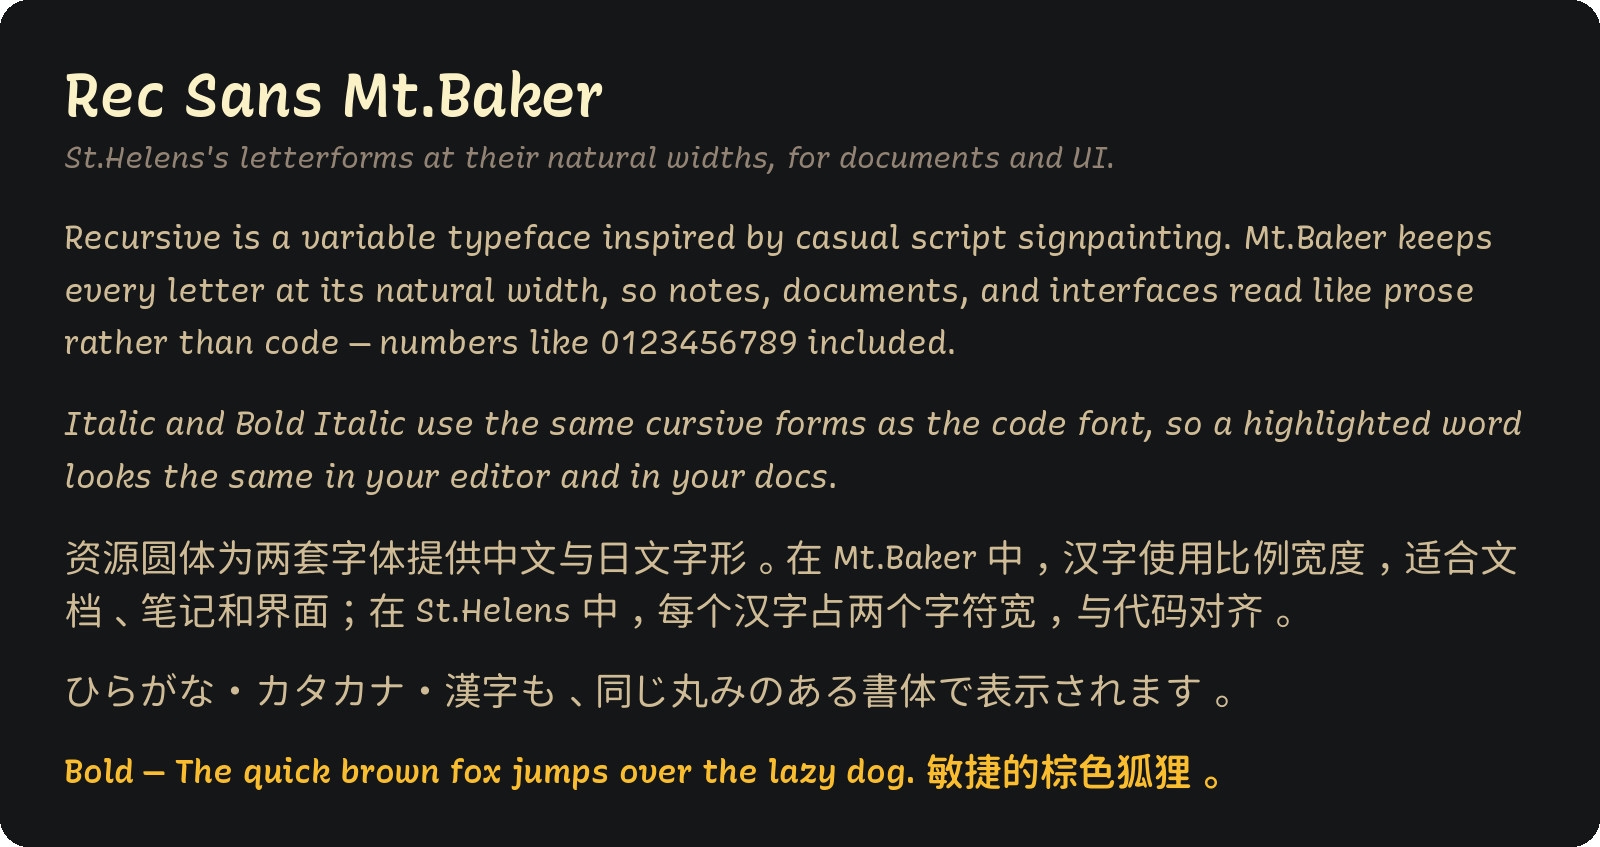
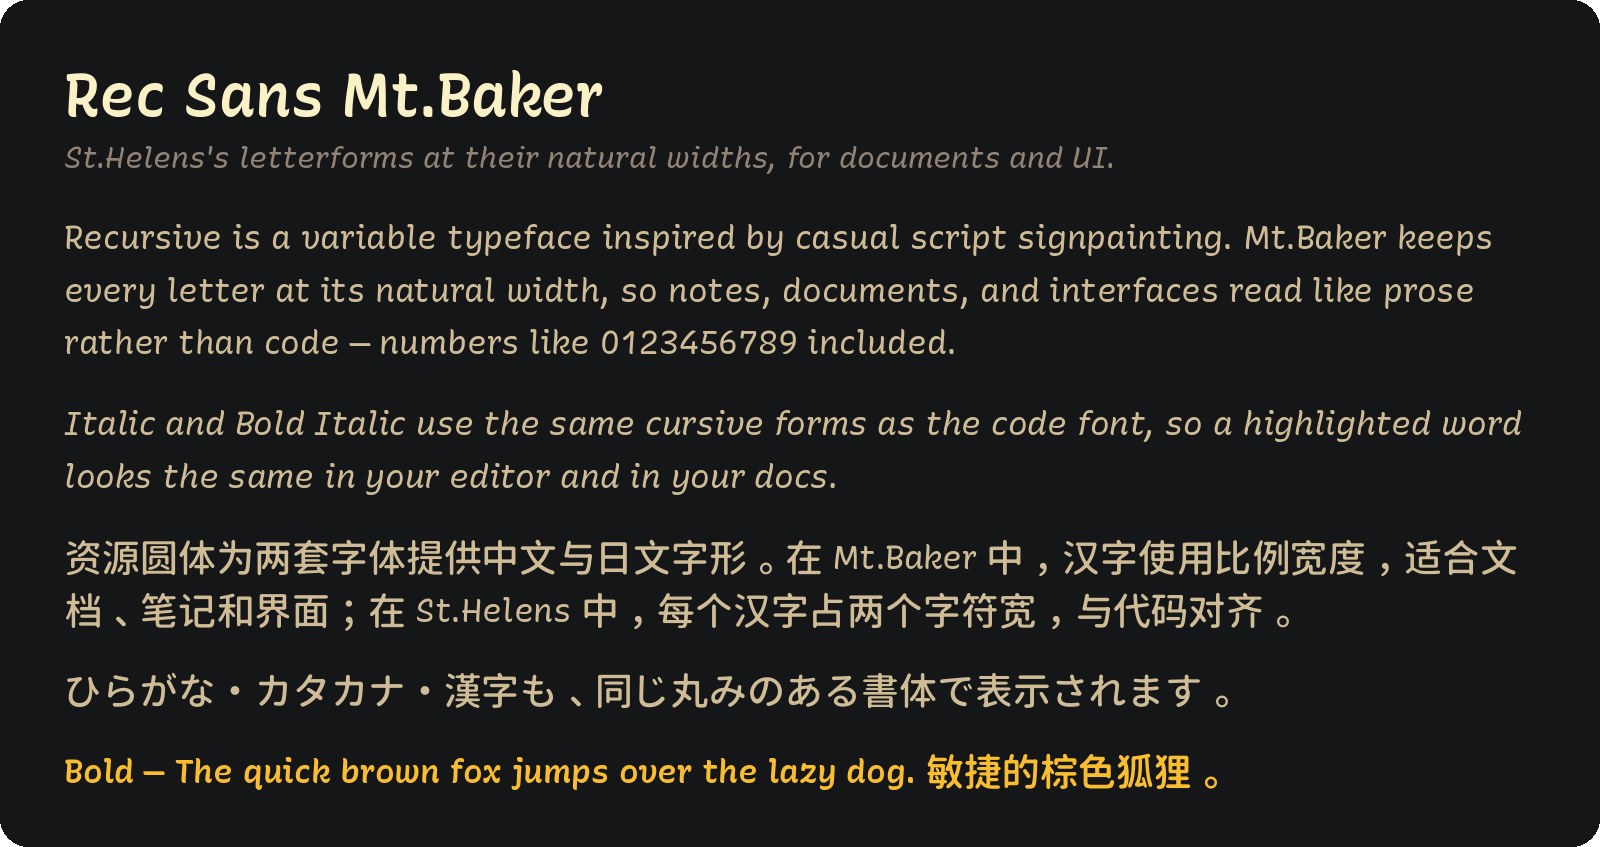
feat: CJK weight 500 for Regular and Italic, 600 for Bold (#6)
* feat: CJK weight 500 for Regular and Italic, 600 for Bold

Resource Han Rounded at wght 400 drew Chinese stems lighter than the
Recursive Regular strokes. Regular and Italic now take the CJK glyphs from
the variable font at wght 500 (Medium); Bold and Bold Italic stay at 600.

The verifier expects a stem ratio of 0.111 for Regular, the fetch test
expects the Medium source, and the README, wiki pages and previews follow.

* test: verifier rejects a Regular font with wght 400 CJK stems

Thin the stems of 丨 and 一 to 0.8× so their ratio falls to the wght 400
value, and expect the stem ratio check to fail.

---------

diff --git a/scripts/test-verify-fonts.py b/scripts/test-verify-fonts.py
@@ -58,6 +58,22 @@ def halfwidth_off_by(units):
     return change
 
 
+def thin_stems(factor):
+    """Scale the stem thickness of 丨 and 一 by factor, as a lighter CJK weight would."""
+    def change(font):
+        cmap = font.getBestCmap()
+        for cp in verify_fonts.CJK_STEM_GLYPHS:
+            glyph = font["glyf"][cmap[cp]]
+            glyph.recalcBounds(font["glyf"])
+            width, height = glyph.xMax - glyph.xMin, glyph.yMax - glyph.yMin
+            axis, low = (0, glyph.xMin) if width < height else (1, glyph.yMin)
+            for i, point in enumerate(glyph.coordinates):
+                point = list(point)
+                point[axis] = round(low + (point[axis] - low) * factor)
+                glyph.coordinates[i] = point
+    return change
+
+
 CASES = [
     ("unchanged font", lambda font: None, None),
     ("missing halfwidth ｱ", drop(0xFF71), "halfwidth"),
@@ -65,6 +81,7 @@ CASES = [
     ("halfwidth ｱ 2 units over half", halfwidth_off_by(2), "halfwidth"),
     ("one ideograph 1 unit wide", widen(0x4E01, 1), "ideograph advances"),
     ("missing stem glyph 丨", drop(0x4E28), "stem glyphs"),
+    ("Regular CJK at wght 400 (stems 0.8×)", thin_stems(0.8), "stem ratio"),
 ]
 
 failed = False

diff --git a/scripts/verify-fonts.py b/scripts/verify-fonts.py
@@ -26,7 +26,7 @@ REQUIRED_CODEPOINTS = {
 # CJK stroke weight as stem thickness / stroke length of 丨 and 一, which does
 # not change with the CJK scale. Resource Han Rounded measures about 0.089 at
 # wght 400, 0.111 at 500, 0.126 at 600, and 0.139 at 700.
-CJK_STEM_RATIO = {"Regular": 0.089, "Bold": 0.126}
+CJK_STEM_RATIO = {"Regular": 0.111, "Bold": 0.126}
 CJK_STEM_TOLERANCE = 0.006
 CJK_STEM_GLYPHS = (0x4E28, 0x4E00)
 

diff --git a/wiki/Build-Pipeline-zh-CN.md b/wiki/Build-Pipeline-zh-CN.md
@@ -34,7 +34,7 @@ flowchart LR
 
 ## 阶段 2：合入中日文
 
-`scripts/merge-cjk.py` 在 FontForge 中运行。它从资源圆体（Regular 和 Italic 用 wght 400，Bold 和 Bold Italic 用 wght 600）复制汉字、假名以及全角/半角区段，
+`scripts/merge-cjk.py` 在 FontForge 中运行。它从资源圆体（Regular 和 Italic 用 wght 500，Bold 和 Bold Italic 用 wght 600）复制汉字、假名以及全角/半角区段，
 先按拉丁字体的 em 缩放，只有高于其上伸部到下伸部的字身时才缩小，
 再乘以中日文缩放比例（默认 1.15），并在该字身中居中。等宽字体使用精确的单元格宽度；
 比例字体保留每个字形自身缩放后的宽度（`--proportional`）。
@@ -66,7 +66,7 @@ flowchart LR
 | `post.isFixedPitch` | 1 | 0 |
 | ASCII 步进宽度 | 全部等于空格 | 至少两种不同宽度 |
 | 汉字步进宽度 | 两格 | 所有汉字同一宽度；必须有半角 ｱ，宽度为其一半（± 1） |
-| 丨 和 一 的笔画粗细比（400：0.089，600：0.126，± 0.006） | 是 | 是 |
+| 丨 和 一 的笔画粗细比（500：0.111，600：0.126，± 0.006） | 是 | 是 |
 | `head.flags` 第 4 位 | 清除 | — |
 
 所有字体构建完成后，`build-all.sh` 运行 `scripts/test-verify-fonts.py`：它修改 Mt.Baker Regular 的副本

diff --git a/wiki/Build-Pipeline.md b/wiki/Build-Pipeline.md
@@ -37,7 +37,7 @@ For `anthropic-serif`, from the configured static weight:
 ## Stage 2: merge CJK
 
 `scripts/merge-cjk.py` runs under FontForge. It copies the CJK, kana, and
-full-width/halfwidth ranges from Resource Han Rounded (wght 400 for Regular and
+full-width/halfwidth ranges from Resource Han Rounded (wght 500 for Regular and
 Italic, wght 600 for Bold and Bold Italic), scales them to the
 Latin font's em, shrinks them only if they are taller than its
 ascender–descender body, multiplies them by the CJK scale (default 1.15), and
@@ -74,7 +74,7 @@ error:
 | `post.isFixedPitch` | 1 | 0 |
 | ASCII advances | All equal to the space | At least two different widths |
 | CJK advance | Two cells | One width for every ideograph; halfwidth ｱ is present and takes half (± 1) |
-| CJK stem ratio of 丨 and 一 (400: 0.089, 600: 0.126, ± 0.006) | Yes | Yes |
+| CJK stem ratio of 丨 and 一 (500: 0.111, 600: 0.126, ± 0.006) | Yes | Yes |
 | `head.flags` bit 4 | Clear | — |
 
 After every family is built, `build-all.sh` runs `scripts/test-verify-fonts.py`,

diff --git a/wiki/Fonts-zh-CN.md b/wiki/Fonts-zh-CN.md
@@ -105,8 +105,8 @@ Mt.Adams（`configs/mt-adams.yaml`）的每种样式取自 Anthropic Serif Text 
 | 资源圆体 CN | 汉字（U+4E00–9FFF 中 20,976 个）、假名、CJK 标点、全角和半角字符 |
 | Nerd Fonts | 补丁工具 `--complete` 选项加入的全部图标集，包括 Powerline |
 
-中日文字形来自资源圆体，字重与拉丁字形一致：Regular 和 Italic 使用 wght 400，
-Bold 和 Bold Italic 使用 wght 600。在每套字体中，字形先按拉丁字体的 em 缩放，只有高于其上伸部到下伸部的
+中日文字形来自资源圆体：Regular 和 Italic 使用 wght 500，比拉丁字形的 wght 400 重一级；
+Bold 和 Bold Italic 使用 wght 600，与拉丁字形相同。在每套字体中，字形先按拉丁字体的 em 缩放，只有高于其上伸部到下伸部的
 字身时才缩小，然后放大 1.15 倍并在该字身中居中。不包含韩文音节。
 
 ## 字宽差异

diff --git a/README.md b/README.md
@@ -85,7 +85,7 @@ St.Helens and Mt.Baker share one design. Every family has four styles: Regular, 
   <img alt="Chinese mixed with Latin text in Regular and Bold of all three families" src="docs/previews/cjk-light.png" width="800">
 </picture>
 
-Chinese and Japanese glyphs come from Resource Han Rounded at the Latin weights: wght 400 for Regular and Italic, and wght 600 for Bold and Bold Italic. They are drawn 1.15× and centred on the Latin line. In St.Helens each one takes exactly two cells; in Mt.Baker and Mt.Adams it keeps its proportional width.
+Chinese and Japanese glyphs come from Resource Han Rounded: wght 500 for Regular and Italic, one step heavier than the Latin wght 400, and wght 600 for Bold and Bold Italic, the same as the Latin. They are drawn 1.15× and centred on the Latin line. In St.Helens each one takes exactly two cells; in Mt.Baker and Mt.Adams it keeps its proportional width.
 
 ### Glyph coverage
 

diff --git a/wiki/Fonts.md b/wiki/Fonts.md
@@ -108,8 +108,8 @@ CJK merge and the icons line up as they do in the Recursive families.
 | Resource Han Rounded CN | CJK ideographs (20,976 in U+4E00–9FFF), kana, CJK punctuation, full-width and halfwidth forms |
 | Nerd Fonts | Every icon set the patcher's `--complete` option adds, including Powerline |
 
-CJK glyphs come from Resource Han Rounded at the same weight as the Latin
-glyphs: wght 400 for Regular and Italic, and wght 600 for Bold and Bold Italic. In every family they are
+CJK glyphs come from Resource Han Rounded: wght 500 for Regular and Italic, one
+step heavier than the Latin wght 400, and wght 600 for Bold and Bold Italic, the same as the Latin. In every family they are
 scaled to the Latin font's em, shrunk only if they would be taller than its
 ascender–descender body, then enlarged 1.15× and centred on that body. Hangul
 syllables are not included.

diff --git a/wiki/Building.md b/wiki/Building.md
@@ -42,7 +42,7 @@ pinned in `versions.env` into `sources/`:
 |---|---|
 | `sources/recursive/` | `Recursive_VF_<version>.ttf` and the code-ligature feature file |
 | `sources/anthropic-serif/` | Four Anthropic Serif Text `.otf` files, each checked against its pinned SHA-256 |
-| `sources/resource-han-rounded/` | `ResourceHanRoundedCN-Regular.ttf` (wght 400) and `-SemiBold.ttf` (wght 600), made from the variable font, whose archive is checked against its pinned SHA-256 |
+| `sources/resource-han-rounded/` | `ResourceHanRoundedCN-Medium.ttf` (wght 500) and `-SemiBold.ttf` (wght 600), made from the variable font, whose archive is checked against its pinned SHA-256 |
 | `sources/nerd-fonts-patcher/` | The Nerd Fonts `font-patcher` and its glyph sources |
 
 Each directory records its version in `.version`; later builds skip the download

diff --git a/wiki/Building-zh-CN.md b/wiki/Building-zh-CN.md
@@ -40,7 +40,7 @@ pip install -r requirements.txt
 |---|---|
 | `sources/recursive/` | `Recursive_VF_<版本>.ttf` 和代码连字特性文件 |
 | `sources/anthropic-serif/` | 四个 Anthropic Serif Text `.otf` 文件，每个都按固定的 SHA-256 校验 |
-| `sources/resource-han-rounded/` | 从可变字体生成的 `ResourceHanRoundedCN-Regular.ttf`（wght 400）和 `-SemiBold.ttf`（wght 600），其压缩包按固定的 SHA-256 校验 |
+| `sources/resource-han-rounded/` | 从可变字体生成的 `ResourceHanRoundedCN-Medium.ttf`（wght 500）和 `-SemiBold.ttf`（wght 600），其压缩包按固定的 SHA-256 校验 |
 | `sources/nerd-fonts-patcher/` | Nerd Fonts 的 `font-patcher` 及其图标源文件 |
 
 每个目录在 `.version` 中记录版本；在 `versions.env` 改变之前，后续构建会跳过下载。
